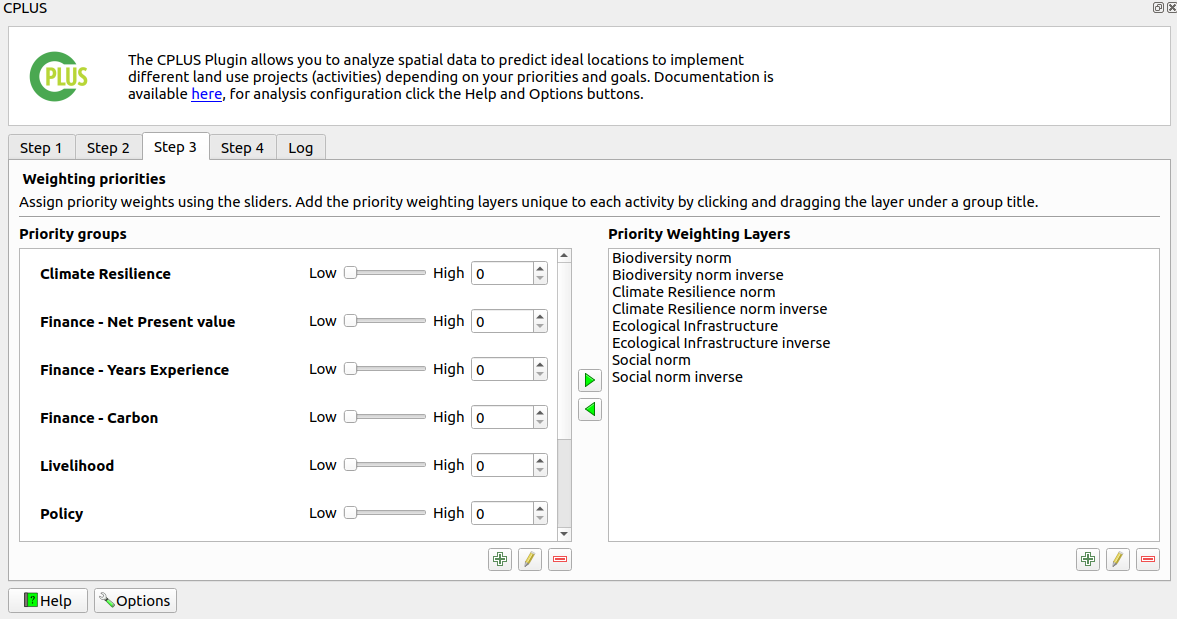
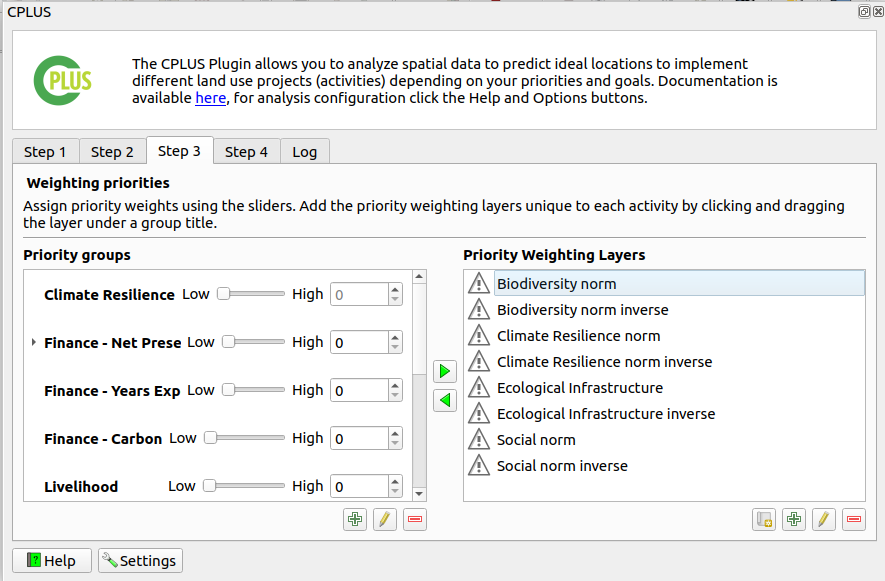
Added documentation for the NPV

Changed region(s): [[0.0, 0.0, 1.0, 1.0], [0.9763, 0.2788, 1.0, 0.3098]]

diff --git a/docs/user/manual/step-3.md b/docs/user/manual/step-3.md
@@ -12,13 +12,68 @@
 
 - ![left arrow](img/cplus_left_arrow.svg): Add the selected PWL to the selected priority group.
 
+- ![file icon](./img/mActionNewMap.svg): Create a financial priority weighted layer.
+
 - ![add button](img/symbologyAdd.svg): Add a new PWL.
 
 - ![remove button](img/symbologyRemove.svg): Remove the selected PWL.
 
 - ![edit button](img/mActionToggleEditing.svg): Edit the selected PWL.
 
-- **Run Scenario**: Starts running the analysis. The progress dialog will open when the user clicks this button.
+## Financial Priority Weighted Layer Editor dialog
+
+The Net Present Value (NPV) Tool is designed to assist users in making informed financial decisions by evaluating and prioritising activities based on their projected cash flows and the time value of money. This manual provides comprehensive instructions on how to utilise the NPV tool effectively.
+
+**Understanding Net Present Value (NPV):**
+Net Present Value (NPV) is a financial metric that calculates the value of a series of future cash flows in today's terms. By discounting future cash flows to their present value, NPV allows users to assess the profitability of an investment or project.
+
+**Purpose of the NPV Tool**
+The primary purpose of the NPV Tool is to help users prioritise activities by providing a clear picture of the financial implications. This aids in holistic decision-making during the planning process, ensuring that the activities with the highest potential value are prioritised and executed.
+
+![File icon](./img/step3-1.png)
+
+1. **File Icon:** Click on the file icon to create a new financial priority weighted layer. Upon clicking, a new window will open specifically for creating the NPV Net Present Value layer.
+
+### Net Present Value (NPV)
+
+![NPV window](./img/step3-2.png)
+
+1. **NPV checkbox:** By default, on the first-time load, the NPV configurations for all activities are disabled. To enable the `Net Present Value (NPV)` for an activity, check the NPV group box.
+
+    ![NPV window](./img/step3-3.png)
+
+![NPV window](./img/step3-4.png)
+
+1. **Number of years:** Enter the number of years. The number of rows in the table will adjust according to the entered number.
+
+2. **Discount Rate %:** Enter the discount rate.
+
+3. **Years Table:** Input the `Project total revenues per hectare` and `Project total cost per hectare` values for the respective years. Note that the `Year` and `Discount Value` cells are greyed out as they are automatically populated.
+
+    >NOTE: For an enabled NPV PWL, all revenue and cost values must be specified. If any values are missing, an error message will display the activities and corresponding years with missing values when attempting to create or update the PWLs.
+
+    ![Error](./img/step3-5.png)
+
+4. **Net Present Value per Hectare:** When the discount rate, revenue, and cost values are updated, the total NPV is automatically recalculated and shown in the net present value per hectare box.
+
+5. **Copy icon:** The user can copy the NPV by clicking on the copy icon available next to the net present value per hectare box.
+
+6. **Min/Max Normalization Range:** It is recommended to keep the `Use computed NPVs` check box enabled (default option). This ensures that the minimum and maximum normalisation values are synced and automatically updated based on user input. The min/max values will be based on enabled NPV parameters for activities. Disabled NPV parameters will be excluded from the computation.
+
+7. **Remove Existing WPL Checkbox:** When the `Remove existing PWLs for disabled activity NPVs check box` is enabled, any previously created NPV PWLs will be deleted upon updating the NPVs.
+
+8. **Update Button:** Click the `Update` button to show a dialog displaying the progress of creating/updating the NPVs.
+
+    - When creating NPV PWL rasters, the corresponding PWLs will be created or updated in the list of PWLs.
+    - The naming convention for these layers is `[activity name] NPV Norm`.
+
+    ![Created NPV PWL](./img/step3-6.png)
+
+- An NPV layer, which is a constant raster containing the normalised value, will be created under the `{BASE_DIR}/priority_layers/npv` directory.
+
+- The extents are based on the user-defined extents specified in Step 1.
+
+![NPV directory](./img/step3-7.png)
 
 ## Priority Weighted Layers Editor dialog
 
@@ -31,7 +86,6 @@
 - **Priority layer description**: A detailed description for the priority layer.
 
 - **Assign activities**: Selected activities associated with the priority layer.
-
 
 ![UI Priority layer dialog](img/manual-pwl-selection.png)
 
